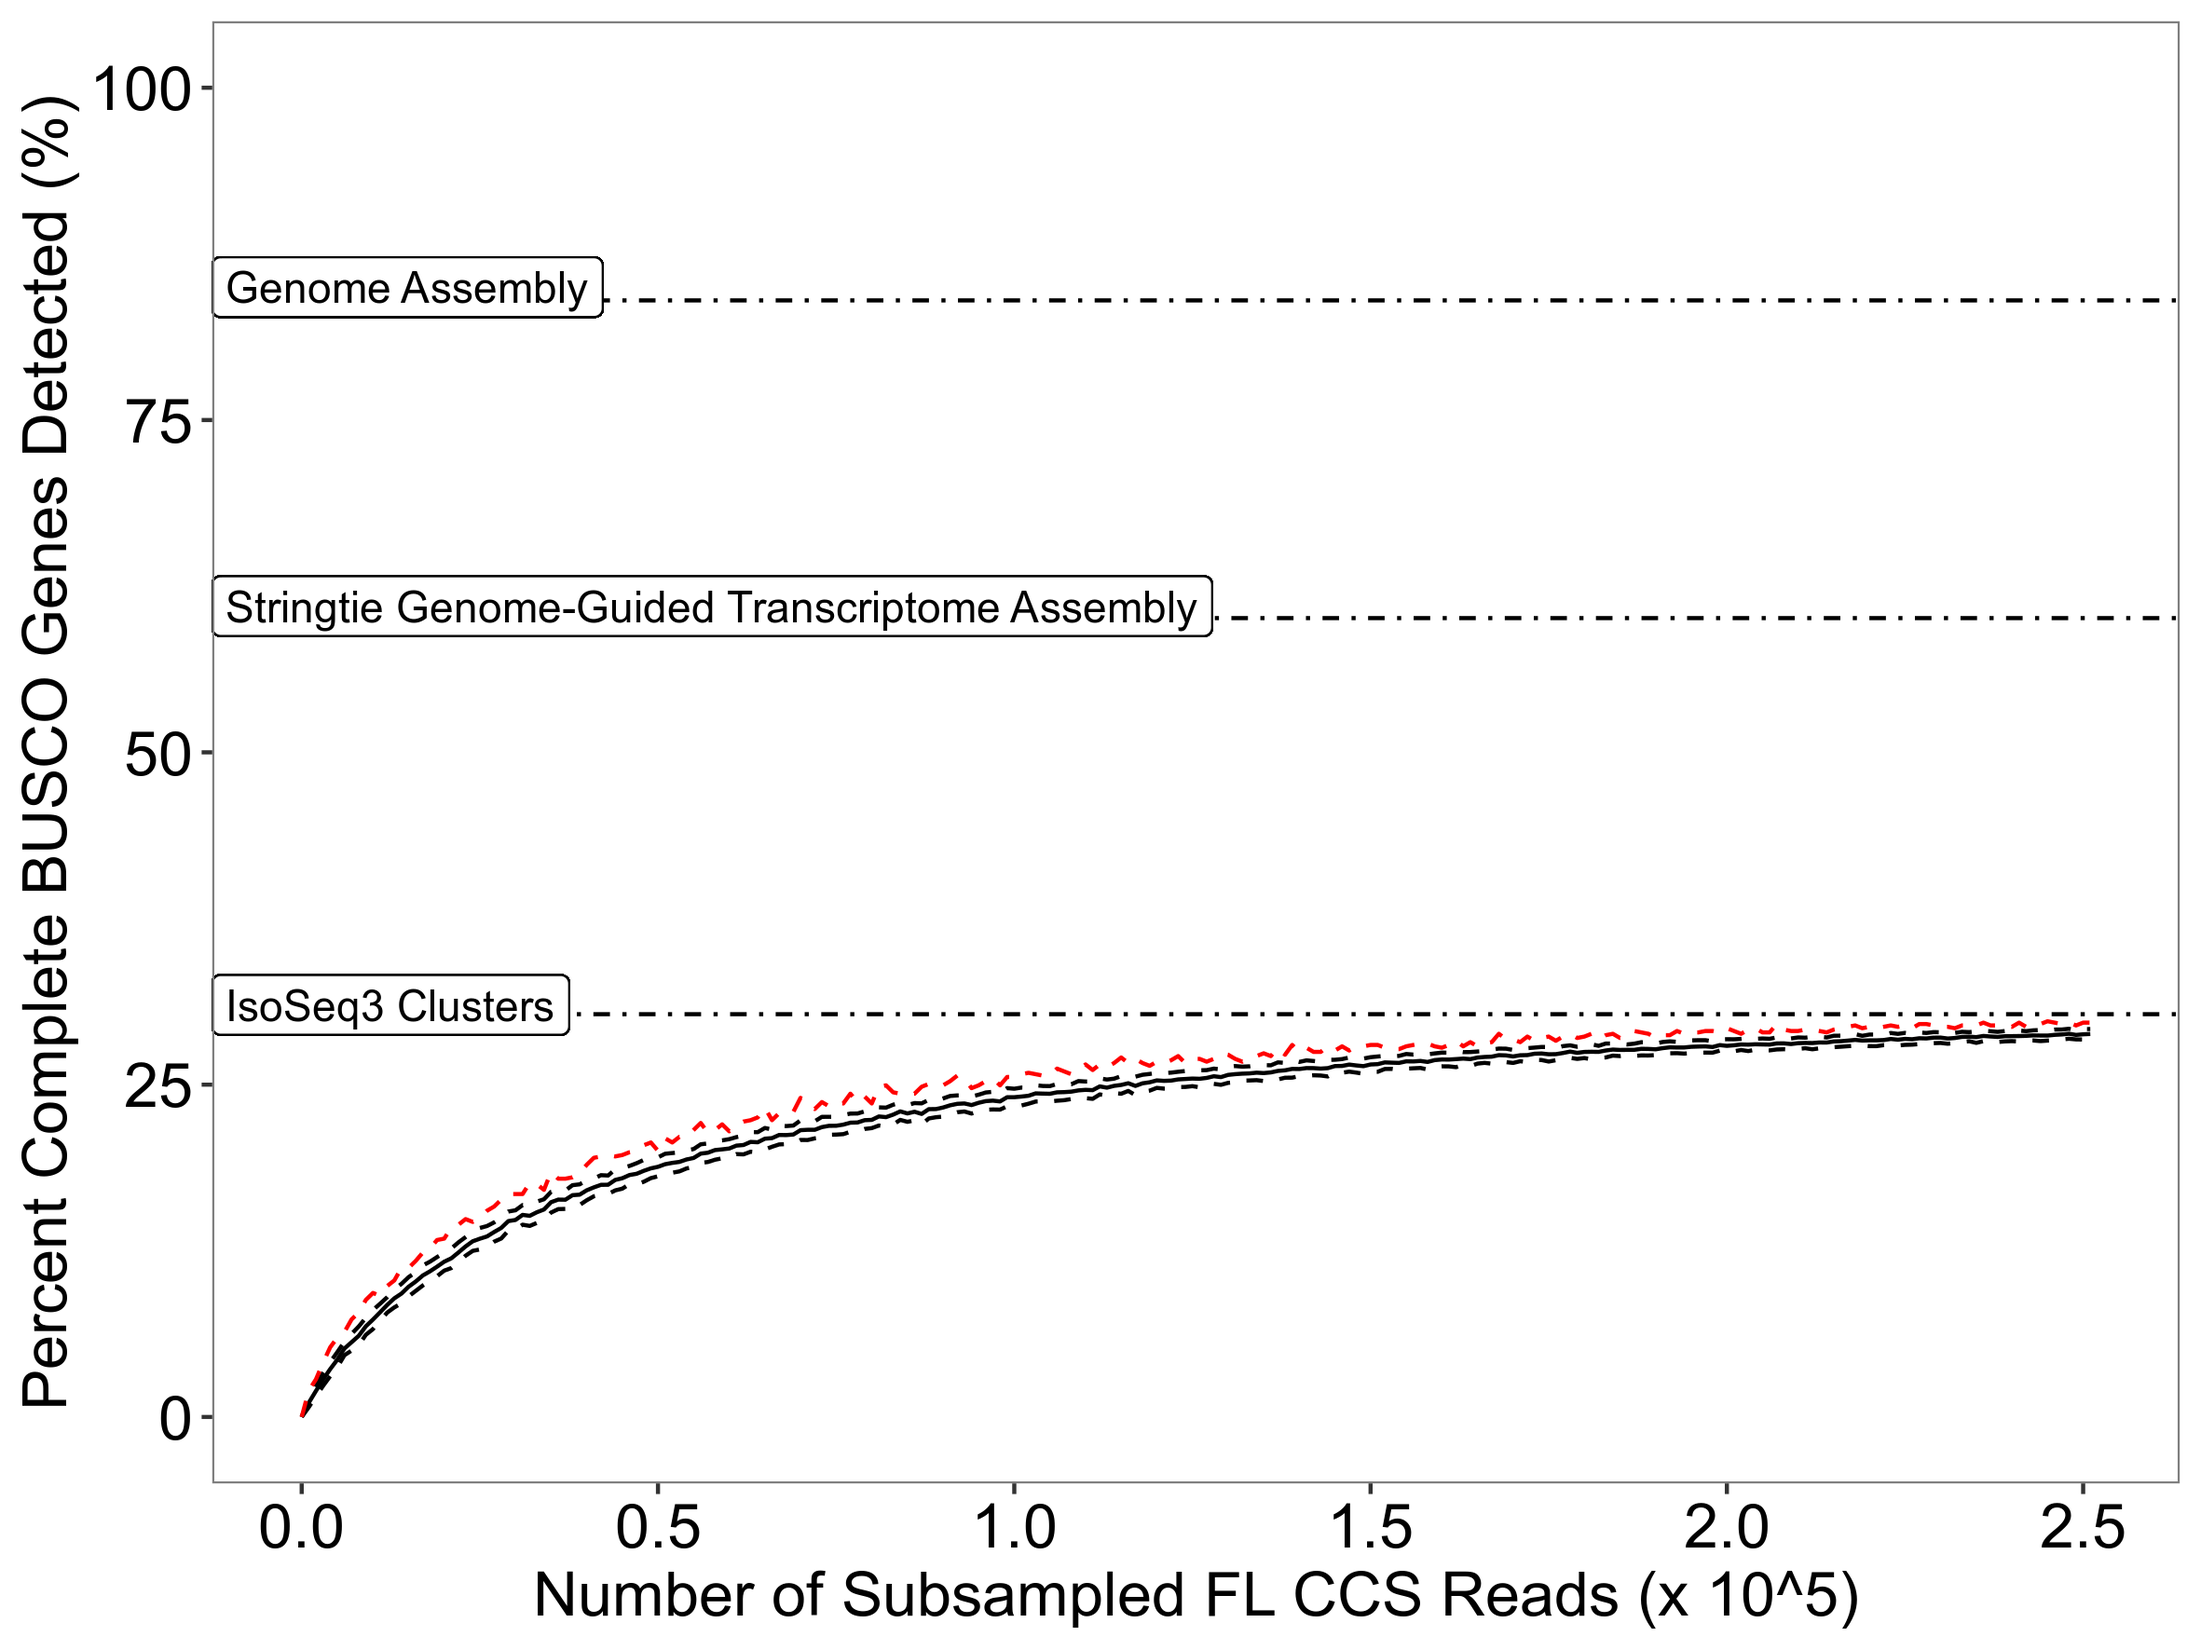
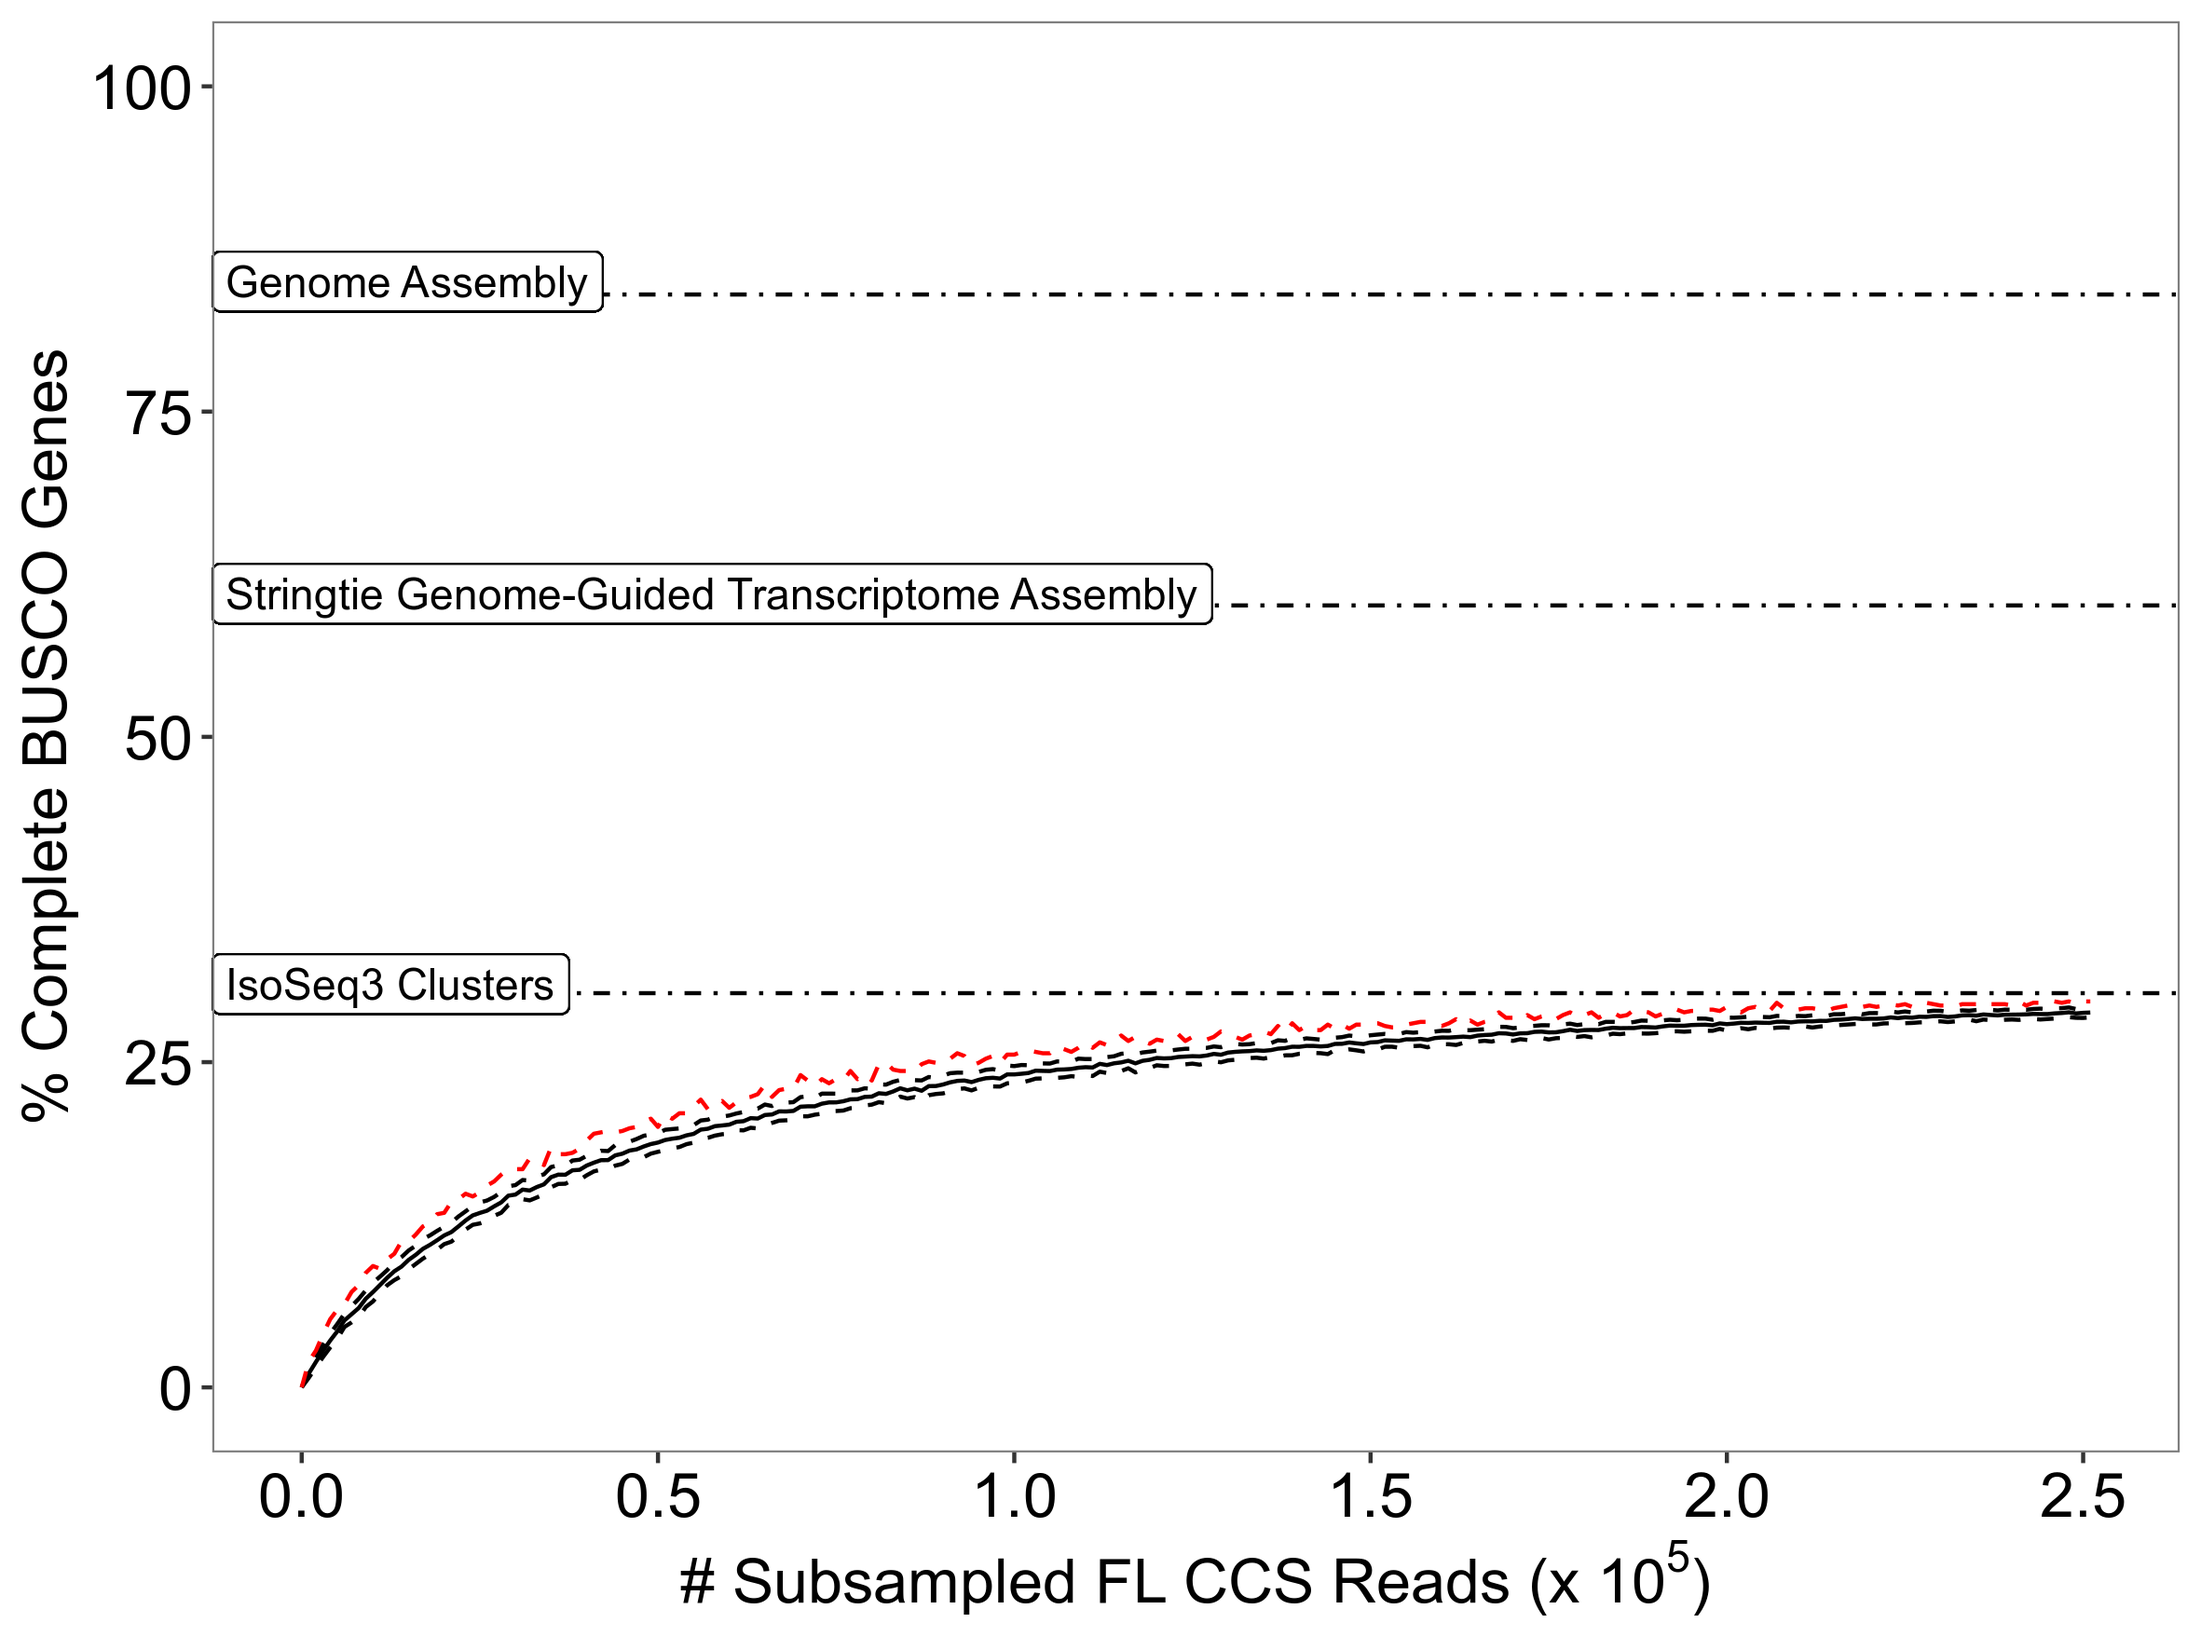
Update: 13.10.2020

diff --git a/README.md b/README.md
@@ -138,13 +138,22 @@ Briefly, I use the clusters produced by the isoseq3 pipeline along with the ´´
 
 ![fig1][fig1]
 
+The figure above shows the mean (solid black line), SE (black dashed lines), and max (dashed red line) percentage of BUSCO genes recovered as a function of the number of CCS reads sampled.
+Also shown are some benchmark values of the percentage of BUSCO genes recovered from the whole-genome assembly, a genome-guided transcriptome assembly, and the isoseq3 clusters for reference.
 
+We can zoom in on the data for samples with >200,000 reads to see that the trend is almost linear at this point.
+
+![fig2][fig2]
+
+If we fit a regression line to that data, and extrapolate out to 4 million CCS reads. We obtain the following.
+
+![fig3][fig3]
 
 ### Conclusions
 
 In our case one SMRT cell was clearly not enough to get a good representation of the genes. 
 
-Based on the extrapolations we would need ~4 million CCS reads to achieve the same results as the 
+Based on the extrapolations we would need ~4 million CCS reads to achieve the same results as the genome assembly threshhold. This corresponds to ~16 SMRT cells on the Sequel and 2-3 on the Sequel II.
 
 
 
@@ -157,7 +166,8 @@ All of the data and scripts required to check these observations are included in
 [screencap2]: /figures/NEBNext_Single_Cell_Low_Input_cDNA_Synthesis_and_Amplification_Module_FAQ.png "screencap2"
 
 [fig1]:/figures/Maccli_plot1.png
-
+[fig2]:/figures/Maccli_plot2.png
+[fig3]:/figures/Maccli_plot1_plus.png
 
 
 
